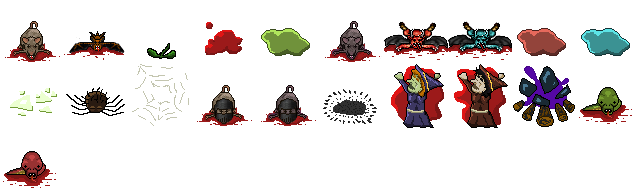
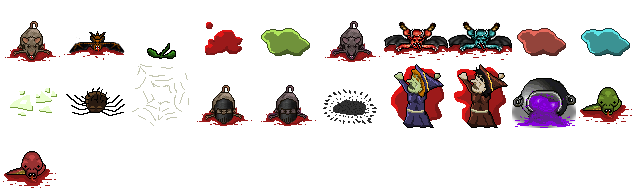
ADD New cauldron and explosions art
Note: Cauldron explodes when dying now

Changed region(s): [[0.7812, 0.3438, 0.9062, 0.6875]]

diff --git a/src/CauldronEntity.cpp b/src/CauldronEntity.cpp
@@ -1,5 +1,6 @@
 #include "CauldronEntity.h"
 #include "SlimeEntity.h"
+#include "ExplosionEntity.h"
 #include "PlayerEntity.h"
 #include "sfml_game/SpriteEntity.h"
 #include "sfml_game/ImageManager.h"
@@ -31,37 +32,51 @@ CauldronEntity::CauldronEntity(float x, float y)
 
 void CauldronEntity::animate(float delay)
 {
-  SoundManager::getInstance().playSound(SOUND_CAULDRON);
-
-  invokeDelay -= delay;
-  if (invokeDelay < 0.0f)
+  if (isAgonising)
   {
-    new SlimeEntity(x, y, SlimeTypeViolet, true);
-    invokeDelay = 1.5f + (float)(rand() % 2500) / 1000.0f;
-  }
-
-  bubbleDelay -= delay;
-  if (bubbleDelay < 0.0f)
-  {
-    bubbleDelay = 0.3f;
-
-    for (int i=0; i < 2; i++)
+    agonizingDelay -= delay;
+    if (agonizingDelay <= 0.0f)
     {
-      float xBub = x - 16 + rand() % 32;
-      SpriteEntity* bubble = new SpriteEntity(ImageManager::getInstance().getImage(IMAGE_CAULDRON), xBub, y - 20, 8, 8);
-      bubble->setZ(z);
-      bubble->setFrame(32);
-      bubble->setType(ENTITY_EFFECT);
-      bubble->setWeight(-20 - rand() % 40);
-      bubble->setLifetime(2.0f);
-      float bloodScale = 0.3f + (rand() % 20) * 0.1f;
-      bubble->setScale(bloodScale, bloodScale);
+      isDying = true;
+      SpriteEntity* corpse = new SpriteEntity(ImageManager::getInstance().getImage(IMAGE_CORPSES), x, y, 64, 64);
+      corpse->setZ(OFFSET_Y);
+      corpse->setImagesProLine(10);
+      corpse->setFrame(deathFrame);
+      corpse->setType(ENTITY_CORPSE);
     }
   }
+  else
+  {
+    SoundManager::getInstance().playSound(SOUND_CAULDRON);
 
-  frame = hp > hpMax / 2 ? 0 : 1;
+    invokeDelay -= delay;
+    if (invokeDelay < 0.0f)
+    {
+      new SlimeEntity(x, y, SlimeTypeViolet, true);
+      invokeDelay = 1.5f + (float)(rand() % 2500) / 1000.0f;
+    }
 
-  EnemyEntity::animate(delay);
+    bubbleDelay -= delay;
+    if (bubbleDelay < 0.0f)
+    {
+      bubbleDelay = 0.3f;
+
+      for (int i=0; i < 2; i++)
+      {
+        float xBub = x - 16 + rand() % 32;
+        SpriteEntity* bubble = new SpriteEntity(ImageManager::getInstance().getImage(IMAGE_CAULDRON), xBub, y - 20, 8, 8);
+        bubble->setZ(z);
+        bubble->setFrame(32);
+        bubble->setType(ENTITY_EFFECT);
+        bubble->setWeight(-20 - rand() % 40);
+        bubble->setLifetime(2.0f);
+        float bloodScale = 0.3f + (rand() % 20) * 0.1f;
+        bubble->setScale(bloodScale, bloodScale);
+      }
+    }
+    frame = hp > hpMax / 2 ? 0 : 1;
+    EnemyEntity::animate(delay);
+  }
 }
 
 void CauldronEntity::readCollidingEntity(CollidingSpriteEntity* entity)
@@ -140,7 +155,13 @@ void CauldronEntity::collideWithEnnemy(GameEntity* collidingEntity)
 
 void CauldronEntity::dying()
 {
-  EnemyEntity::dying();
+  new ExplosionEntity(x, y, ExplosionTypeViolet, 0);
+
+  SoundManager::getInstance().playSound(dyingSound);
+  isAgonising = true;
+  agonizingDelay = 0.7f;
+  drop();
+  game().addKilledEnemy(enemyType);
 }
 
 void CauldronEntity::drop()

diff --git a/src/ExplosionEntity.cpp b/src/ExplosionEntity.cpp
@@ -7,16 +7,21 @@
 
 #include <iostream>
 
-ExplosionEntity::ExplosionEntity(float x, float y, int damage)
-  : SpriteEntity(ImageManager::getInstance().getImage(IMAGE_EXPLOSION64), x, y, 100, 100)
+ExplosionEntity::ExplosionEntity(float x, float y, explosionTypeEnum explosionType, int damage)
+  : SpriteEntity(ImageManager::getInstance().getImage(IMAGE_EXPLOSION), x, y, 100, 100)
 {
   type = ENTITY_EXPLOSION;
-  frame = 0;
-  imagesProLine = 14;
-  lifetime = 1.0f;
-  spin = 900.0f;
+  this->explosionType = explosionType;
+  imagesProLine = 6;
+  lifetime = 0.8f;
 
   this->damage = damage;
+
+  switch (explosionType)
+  {
+    case ExplosionTypeStandard: frame = 0; break;
+    case ExplosionTypeViolet: frame = 6; break;
+  }
 
   sprite.setOrigin(50, 50);
   testCollisions();
@@ -29,17 +34,22 @@ void ExplosionEntity::animate(float delay)
     if (age >= lifetime) isDying = true;
   }
   age += delay;
-  //angle += spin * delay;
 
   z = y + height / 2;
 
-  if (age > lifetime - 0.5f)
+  /*if (age > lifetime - 0.5f)
   {
     float f = (lifetime - age) * 2.0f;
     sprite.setScale(f, f);
-  }
+  }*/
 
-  frame = age / lifetime * 14;
+  frame = age / lifetime * 6;
+  if (frame > 5) frame = 5;
+  switch (explosionType)
+  {
+    case ExplosionTypeStandard: break;
+    case ExplosionTypeViolet: frame += 6; break;
+  }
 }
 
 void ExplosionEntity::render(sf::RenderTarget* app)
@@ -77,7 +87,7 @@ void ExplosionEntity::testCollisions()
 
         if (bb.intersects(entity->getBoundingBox()))
         {
-          entity->hurt(damage, ShotTypeFire, 0, false);
+          if (damage > 0) entity->hurt(damage, ShotTypeFire, 0, false);
 
           Vector2D recoilVector = Vector2D(x, y).vectorTo(Vector2D(entity->getX(), entity->getY()), 800.0f );
           entity->giveRecoil(true, recoilVector, 1.0f);

diff --git a/src/ExplosionEntity.h b/src/ExplosionEntity.h
@@ -3,10 +3,12 @@
 
 #include "sfml_game/SpriteEntity.h"
 
+enum explosionTypeEnum { ExplosionTypeStandard, ExplosionTypeViolet };
+
 class ExplosionEntity : public SpriteEntity
 {
   public:
-    ExplosionEntity(float x, float y, int damage);
+    ExplosionEntity(float x, float y, explosionTypeEnum explosionType, int damage);
 
     virtual void animate(float delay);
     virtual void render(sf::RenderTarget* app);
@@ -17,6 +19,7 @@ class ExplosionEntity : public SpriteEntity
 
   private:
     int damage;
+    explosionTypeEnum explosionType;
 };
 
 #endif // EXPLOSIONENTITY_H

diff --git a/src/WitchBlastGame.cpp b/src/WitchBlastGame.cpp
@@ -110,7 +110,7 @@ WitchBlastGame::WitchBlastGame():
     "media/corpses.png",       "media/corpses_big.png",
     "media/star.png",          "media/star2.png",
     "media/interface.png",     "media/hud_shots.png",
-    "media/boom64.png",        "media/keys_qwer.png",
+    "media/explosion.png",        "media/keys_qwer.png",
     "media/keys_azer.png",     "media/message_icons.png",
     "media/pnj.png",           "media/fairy.png",
   };

diff --git a/src/BoltEntity.cpp b/src/BoltEntity.cpp
@@ -311,7 +311,7 @@ void BoltEntity::collideMapBottom()
 void BoltEntity::explode()
 {
   isDying = true;
-  new ExplosionEntity(x, y, 12);
+  new ExplosionEntity(x, y, ExplosionTypeStandard, 12);
   game().makeShake(0.5f);
   SoundManager::getInstance().playSound(SOUND_BOOM_00);
 

diff --git a/src/SlimeEntity.cpp b/src/SlimeEntity.cpp
@@ -368,7 +368,7 @@ void SlimeEntity::fire()
 
 void SlimeEntity::explode()
 {
-  new ExplosionEntity(x, y, isPet ? 18 : 12);
+  new ExplosionEntity(x, y, ExplosionTypeStandard, isPet ? 18 : 12);
   game().makeShake(1.0f);
   SoundManager::getInstance().playSound(SOUND_BOOM_00);
 }

diff --git a/src/CauldronEntity.h b/src/CauldronEntity.h
@@ -22,7 +22,9 @@ class CauldronEntity : public EnemyEntity
 	  virtual void dying();
 	  virtual void drop();
   private:
-    float invokeDelay, bubbleDelay;
+    float invokeDelay;
+    float bubbleDelay;
+    float agonizingDelay;
 };
 
 #endif // CAULDRON_ENTITY_H

diff --git a/src/Constants.h b/src/Constants.h
@@ -106,7 +106,7 @@ enum item_images {
   IMAGE_STAR_2,
   IMAGE_INTERFACE,
   IMAGE_HUD_SHOTS,
-  IMAGE_EXPLOSION64,
+  IMAGE_EXPLOSION,
   IMAGE_KEYS_QWER,
   IMAGE_KEYS_AZER,
   IMAGE_MESSAGE_ICONS,
